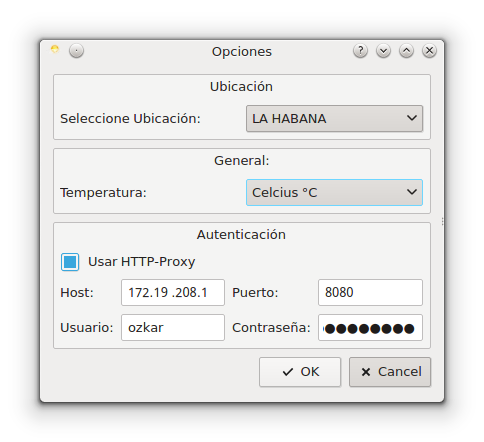
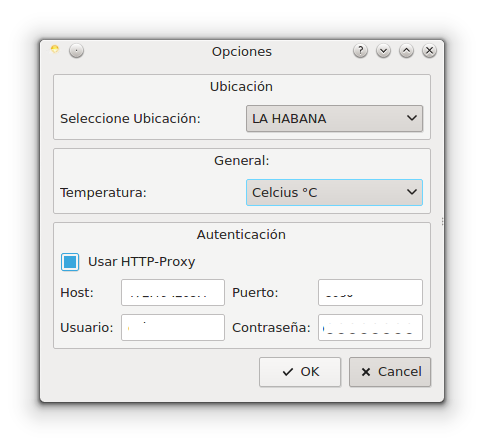
erased personal data

diff --git a/index.html b/index.html
@@ -48,7 +48,7 @@
         </div>
         <div class="col-md-7">
           <h2 class="featurette-heading"><span class="text-muted">Pron&oacute;stico Extendido.</span></h2>
-          <p class="lead">Prognos guarda el pron&oacute;stico para los d&iacute;s venideros, as&iacute;, En caso de que no tenga acceso a la red, Prognos actualiza pron&oacute;stico para el d&iacute;a en curso y los 5 d&iacute;as posteriores.</p>
+          <p class="lead">Prognos guarda el pron&oacute;stico para los d&iacute;as venideros, as&iacute;, En caso de que no tenga acceso a la red, Prognos actualiza pron&oacute;stico para el d&iacute;a en curso y los 5 d&iacute;as posteriores.</p>
         </div>
       </div>
 
